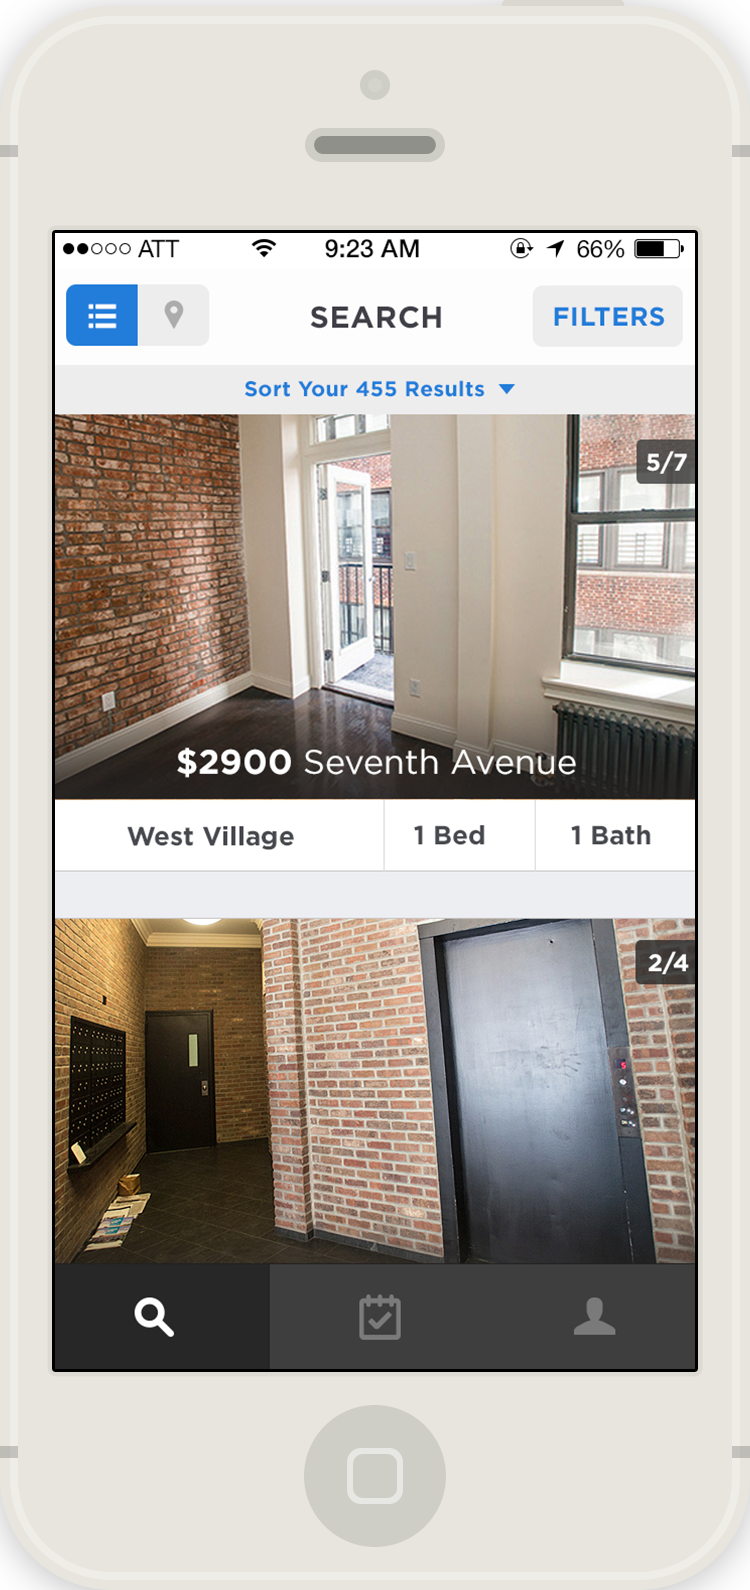
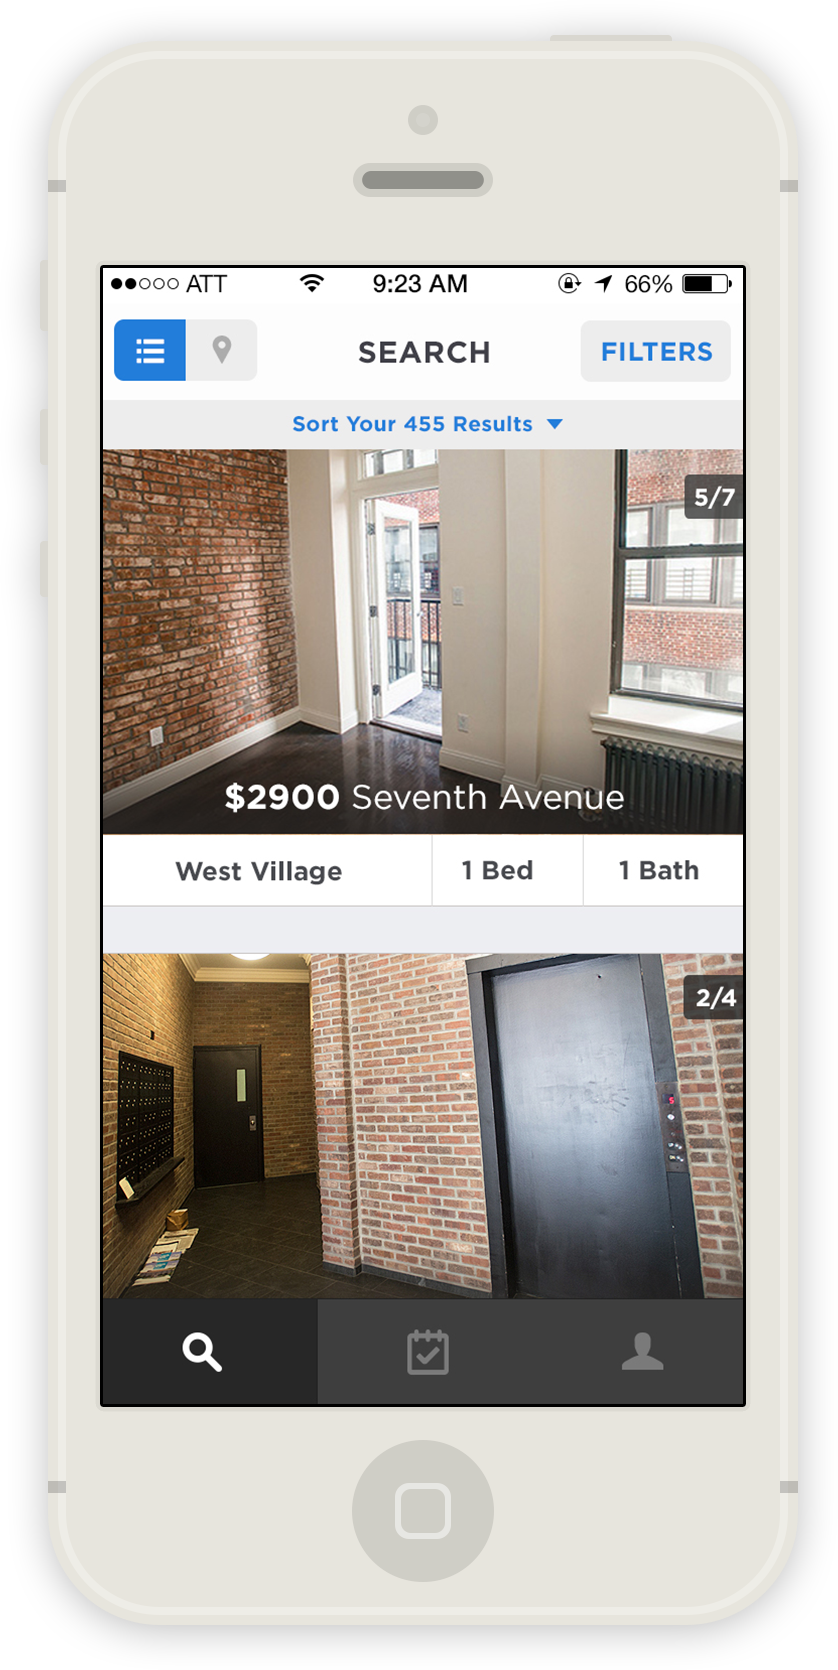
fixing shadow on ios images

diff --git a/source/stylesheets/custom.scss b/source/stylesheets/custom.scss
@@ -321,6 +321,10 @@
 
   }
 
+  .no_shadow {
+    box-shadow: 0px 0px 0px 0px #bcbcbc;
+  }
+
   img:last-child {
     margin-right: 0px;
   }
